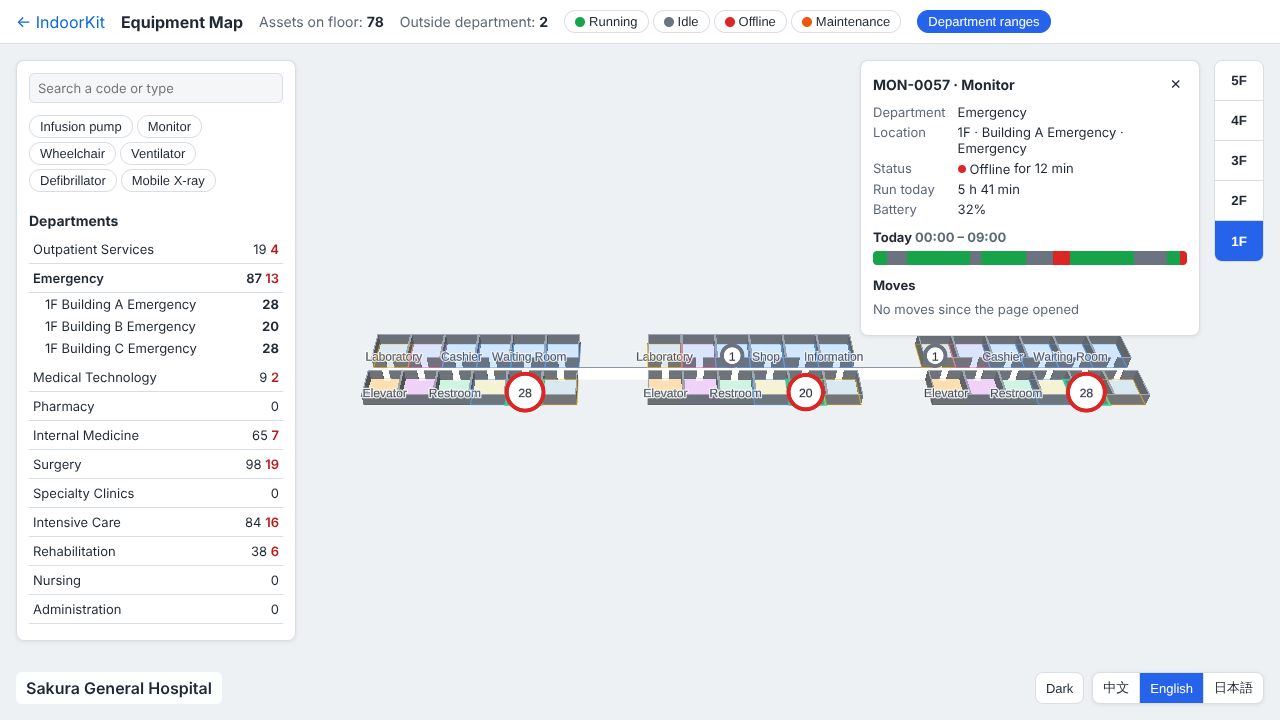
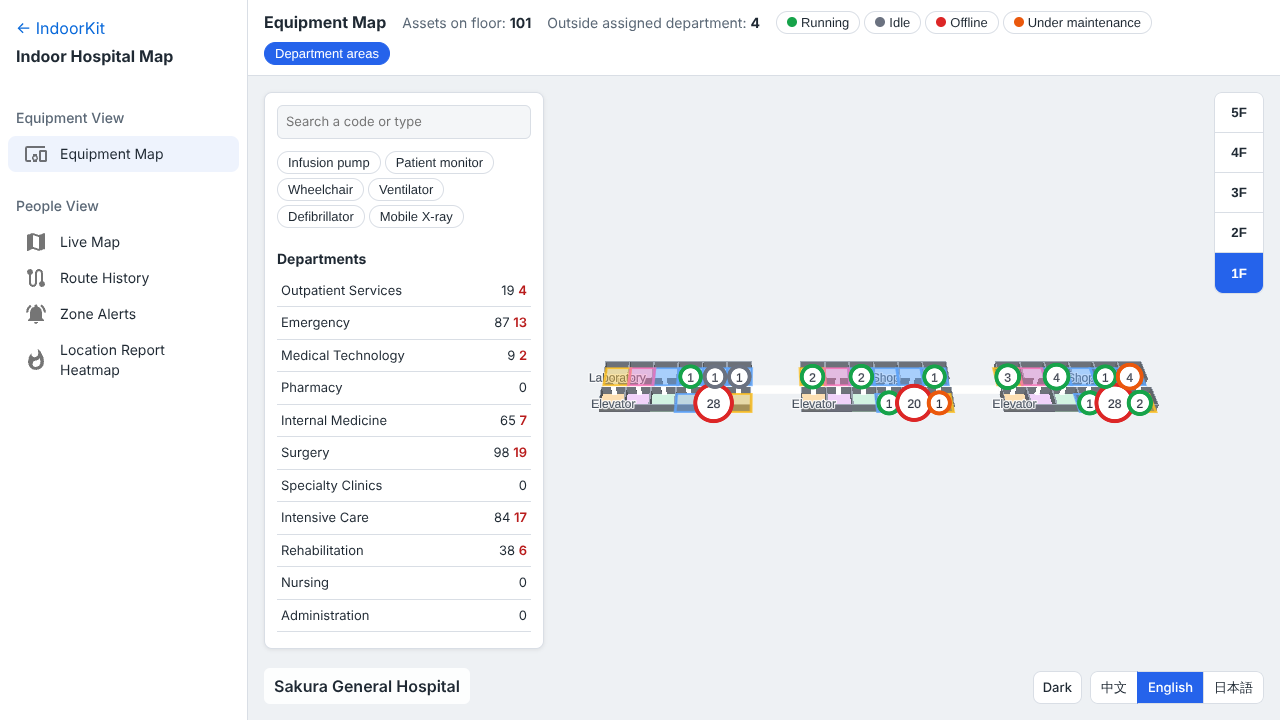
docs: ADR 0003 for the React app, layout docs and new screenshots
- ADR 0002 page line, AGENTS.md, coding rule 8, READMEs, KB testing page
- docs/images re-taken with the sidebar layout (also used on the home page)
- task document with the confirmed results

Claude-Session: https://claude.ai/code/session_01Pu2VmrH4jZJrU7jY1CAmuC

diff --git a/docs/tasks/CURRENT.md b/docs/tasks/CURRENT.md
@@ -43,3 +43,25 @@ Success criteria: `pnpm verify`, `pnpm build`, `pnpm e2e` (including leak-bench)
 Before the change: `vitest run test/layers.test.ts apps/playground/test` → 3 layer checks fail (no `src/app`, no `.tsx` pages, pages write HTML strings) and both new test files fail to import (`src/app/routes`, `src/pages/home/scenarios` do not exist). Baseline e2e on `d51cd01`: 84 passed.
 
 # PROPOSALS
+
+- No.1 React + MUI app shell, hash router with ordered teardown, pages as React components [CONFIRMED]
+
+## No.1 React + MUI app shell, hash router with ordered teardown, pages as React components
+
+### CODE CHANGE
+
+- Dependencies (playground only): `react`, `react-dom`, `@mui/material`, `@mui/icons-material`, `@emotion/react`, `@emotion/styled`, `@vitejs/plugin-react`; `jsx: react-jsx` in `tsconfig.json`.
+- `app/`: `routes.ts` (pure hash parsing and redirects, menu groups), `router.ts` (`useHashRoute`, `useSettled` waits for `teardown.ts` before mounting the next page), `mui-theme.ts` (`TOKENS` is the only place for colors; MUI palette and the `--bg`… CSS variables come from it), `controls.tsx` (theme and language buttons as MUI), `hospital-layout.tsx` (permanent drawer ≥ 641 px, app bar + top drawer below), `App.tsx`.
+- `app-i18n.ts` / `app-theme.ts`: `useLocale`, `useT`, `usePageTitle`, `useThemeName` through `useSyncExternalStore`; DOM `translate()` and the hand-made switchers removed.
+- `pages/map-page.tsx`: `useMapPage` (creates the map in the stage, registers its destruction with the router), `useMapEvent` (`useEffectEvent`), `useRefresh` (throttled re-render), `MapPageLayout`.
+- `pages/<page>/{index,view}.tsx` for the five hospital pages and `home`; `presentation/ui.tsx` (`ChipGroup`, `RadioGroup`, `throttle`), `presentation/perf.tsx` (`PerfOverlay`, commits the snapshot with `flushSync` so the hook and the text always agree).
+- Home: hero, carousel (arrows, dots, 6 s autoplay that pauses on hover/focus and stops after manual use, off with reduced motion), parking and museum greyed out with copy from the two demo plans.
+- Tests: `people.spec.ts` sets the range input through the native setter (React controlled input); the tracking tag radio shows the new choice before the page remounts.
+- Docs: ADR 0003, ADR 0002 page line, AGENTS.md, coding rule 8, three READMEs, KB testing page, screenshots in `docs/images` re-taken with the new layout.
+
+### CONFIRMED
+
+- `pnpm verify`: lint, typecheck, 302 unit tests (39 files) pass, including the new layer rules.
+- `pnpm build` passes (app bundle 1.69 MB, gzip 490 KB; Vite warns above 1.5 MB).
+- `pnpm e2e`: 102 passed (84 before + 18 new), including leak-bench (`activeWorkers`, `liveMaps`, `lastUnreleased` all 0 after every round) and both contrast checks.
+- Screenshots of home (light, dark, parking slide, phone), all five pages on desktop and phone and the open phone menu were checked by eye.

diff --git a/docs/adr/0003-react-app.md b/docs/adr/0003-react-app.md
@@ -1,0 +1,21 @@
+# ADR 0003：演示应用改用 React 和 MUI
+
+状态：已采纳
+
+## 背景
+
+演示应用原来用原生 TypeScript 拼 HTML 字符串（`view.ts` 返回字符串，`index.ts` 用 `innerHTML` 和事件委托接线）。首页要做三个应用场景的走马灯，医院演示要加桌面端侧栏和手机端顶栏菜单，页面状态（筛选、选中、抽屉）也越来越多，手写 DOM 更新容易出错。
+
+## 决定
+
+- **只有应用层用 React**：`apps/playground` 用 React 19 和 MUI（日本 React 项目里最常用的组件库）。`packages/*`（SDK，唯一封装 MapLibre 的地方）和 `domains/hospital`（医院业务规则，也在 Worker 里运行）保持不依赖框架的 TypeScript。`test/layers.test.ts` 检查 SDK 和业务层没有 `.tsx`、不引入 React / MUI / Emotion，页面不写 HTML 字符串。
+- **地址**：`#/` 是首页；医院演示在 `#/hospital/<page>`，进入 `#/hospital` 直接打开第一个地图页；旧的 `#/<page>` 链接替换成新地址。路由在 `app/routes.ts`，是纯函数，有单元测试。
+- **一次只有一张地图**：页面卸载时把销毁地图（含插件的 Worker）的 Promise 登记到 `app/teardown.ts`，路由等它完成才挂载下一页（`useSettled`）。换页时侧栏不重建。
+- **地图页**：`useMapPage` 在挂载时创建地图，就绪前返回 `null`；`useMapEvent` 订阅地图事件；实时数据每秒更新，列表用 `useRefresh` 限频重画，渲染时从插件读最新数据。`MapPageLayout` 提供标题栏、楼层按钮、场馆名和手机端的列表按钮。
+- **样式**：外框（侧栏、顶栏、首页、语言和主题按钮）用 MUI；地图上的面板沿用 `style.css`。两套主题的颜色只写在 `app/mui-theme.ts` 的 `TOKENS`，MUI 调色板和 CSS 变量都从它生成。
+
+## 后果
+
+- 停车场、博物馆演示可以复用 `app/` 的外框和 `useMapPage`，只写自己的业务包和页面。
+- MUI 和 React 让应用包变大（约 1.7 MB，gzip 后约 490 KB），SDK 包不受影响。
+- 受控输入框不响应直接写 `el.value`：端到端测试设 range 值时要用原生 setter。

diff --git a/docs/adr/0002-sdk-and-domain-layers.md b/docs/adr/0002-sdk-and-domain-layers.md
@@ -20,7 +20,7 @@
 - **地图引擎**：只有 `@indoorkit/core` 引入 maplibre-gl。页面要的镜头、坐标换算、点选和等待绘制都由核心提供（`indoor.camera.focus` / `fit`、`indoor.project`、`map:click` 事件、`ctx.queryRendered`、`indoor.idle` / `rendered`）。应用里只有 `engine/maplibre.ts` 加载引擎的样式表和 Worker 脚本，`testing/` 通过 `@indoorkit/core/testing` 的 `inspect` 读取样式供测试钩子使用。
 - **SDK**：不认识任何行业概念。科室变成通用的 IMDF 扩展（`defineImdfExtension`，数据在 `venue.extensions`）；科室插件变成按区块分组的 `zonePlugin`；状态颜色、热力图窗口由调用方传入；定位数据契约独立成 `@indoorkit/rtls`，`positions:update` 事件在那里声明。
 - **业务**：`@indoorkit/hospital` 放科室扩展、科室查询（`createHospital`）、人员和设备模型、报警规则和报警引擎。它不引入地图、不碰 DOM，可以在服务端或 Worker 里直接用。
-- **页面**：每个页面一个目录，`index.ts` 接线（插件、事件、状态），`view.ts` 生成界面 HTML。页面不碰底层地图、不写 `indoor-` 图层 id、不强转插件 API。把业务接到 SDK 插件上的代码（报警插件、读取带科室的场馆、模拟数据源）放在 `adapters/`。
+- **页面**：每个页面一个目录，`index.tsx` 是页面组件（创建地图、订阅事件、持有状态），`view.tsx` 是展示用的 React 组件（React 见 [ADR 0003](0003-react-app.md)）。页面不碰底层地图、不写 `indoor-` 图层 id、不强转插件 API。把业务接到 SDK 插件上的代码（报警插件、读取带科室的场馆、模拟数据源）放在 `adapters/`。
 
 边界由 `test/layers.test.ts` 检查：扫描每层源码的 import 和用词，越界即失败。
 

diff --git a/docs/guidelines/coding.md b/docs/guidelines/coding.md
@@ -9,7 +9,7 @@
 5. Styles are generated from data categories plus a theme. Colors never go into the data.
 6. Map text is provided in at least `ja` and `en`.
 7. Core logic must be testable without WebGL, using `FakeMap`.
-8. Keep the four layers apart ([ADR 0002](../adr/0002-sdk-and-domain-layers.md), checked by `test/layers.test.ts`): only `@indoorkit/core` imports maplibre-gl; SDK packages contain no hospital concepts; `domains/hospital` imports no map, SDK runtime or DOM; pages use SDK public APIs only (no raw map, no `indoor-` layer ids, no plugin casts). Code that connects the domain to SDK plugins goes in `apps/playground/src/adapters`.
+8. Keep the four layers apart ([ADR 0002](../adr/0002-sdk-and-domain-layers.md), checked by `test/layers.test.ts`): only `@indoorkit/core` imports maplibre-gl; SDK packages contain no hospital concepts; `domains/hospital` imports no map, SDK runtime or DOM; pages use SDK public APIs only (no raw map, no `indoor-` layer ids, no plugin casts). Code that connects the domain to SDK plugins goes in `apps/playground/src/adapters`. React, MUI and any other UI framework stay in `apps/` ([ADR 0003](../adr/0003-react-app.md)).
 
 ## Fail loudly, but validate input
 

diff --git a/AGENTS.md b/AGENTS.md
@@ -14,9 +14,9 @@ Project instructions shared by AI collaborators and human developers. Claude Cod
 | `tools/venue-gen` | Generates IMDF data for the fictional hospital "さくら総合病院" |
 | `tools/rtls-simulator` | Roster and movement simulator, as a Worker data provider |
 | `tools/leak-bench` | Playwright memory regression tests |
-| `apps/playground` | Demo gallery, deployed to GitHub Pages: `engine/`, `adapters/`, `presentation/`, `pages/<page>/{index,view}.ts`, `testing/` |
+| `apps/playground` | React + MUI demo app, deployed to GitHub Pages: `app/` (hash router, hospital sidebar / top menu, theme), `engine/`, `adapters/`, `presentation/`, `pages/<page>/{index,view}.tsx` (`home` is the scenario carousel), `testing/` |
 
-The layers and what each may import are described in [ADR 0002](docs/adr/0002-sdk-and-domain-layers.md) and checked by `test/layers.test.ts`.
+React and MUI are used only in `apps/` ([ADR 0003](docs/adr/0003-react-app.md)); the SDK packages and `domains/` stay framework-free TypeScript. The layers and what each may import are described in [ADR 0002](docs/adr/0002-sdk-and-domain-layers.md) and checked by `test/layers.test.ts`.
 
 ## The only entry commands
 

diff --git a/README.md b/README.md
@@ -102,7 +102,7 @@ TypeScript (strict) · MapLibre GL JS · IMDF · zod · Web Worker + Comlink · 
 | `domains/hospital` | Hospital business logic without a map: departments (an IMDF extension), roles, devices and statuses, and the two-layer alert engine |
 | `tools/venue-gen` | Generator for the fictional hospital and its departments |
 | `tools/rtls-simulator` | Roster of people and devices, movement simulator and its Worker data provider |
-| `apps/playground` | The five pages of the live demo: `engine/` loads MapLibre, `adapters/` connects the hospital domain and the simulator to SDK plugins, `presentation/` formats text and colors, `pages/` holds each page, `testing/` holds the test hooks |
+| `apps/playground` | The live demo, in React with MUI: a home page with the three use cases, then the five hospital pages behind a sidebar (top menu on phones). `engine/` loads MapLibre, `adapters/` connects the hospital domain and the simulator to SDK plugins, `presentation/` formats text and colors, `pages/` holds each page, `testing/` holds the test hooks |
 
 ## Run locally
 

diff --git a/docs/kb/KB_Testing.md b/docs/kb/KB_Testing.md
@@ -37,7 +37,7 @@ Prefer these over screenshots: they give exact values, they don't depend on the 
 
 ## Memory regression
 
-`tools/leak-bench/page-switch.spec.ts` opens all four pages in turn, 2 warm-up rounds and then 8 measured rounds, forcing GC through CDP before each measurement. It fails if `JSHeapUsedSize` grows by 8 MiB or more, or if any Worker, map or registered resource is left after returning to the gallery.
+`tools/leak-bench/page-switch.spec.ts` opens all four pages in turn, 2 warm-up rounds and then 8 measured rounds, forcing GC through CDP before each measurement. It fails if `JSHeapUsedSize` grows by 8 MiB or more, or if any Worker, map or registered resource is left after returning to the home page.
 
 ## Intermittent failures
 
